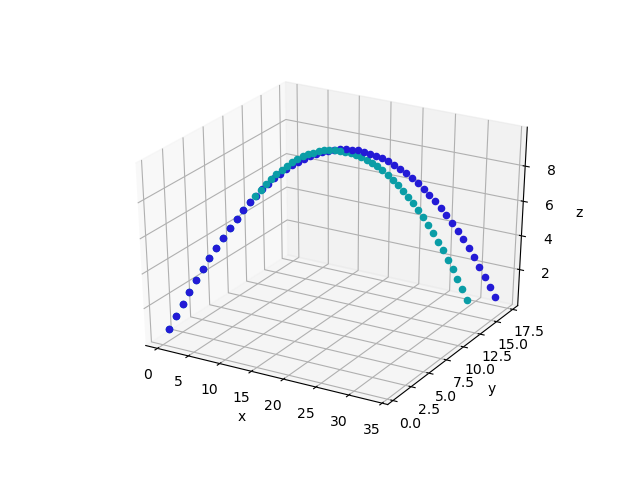
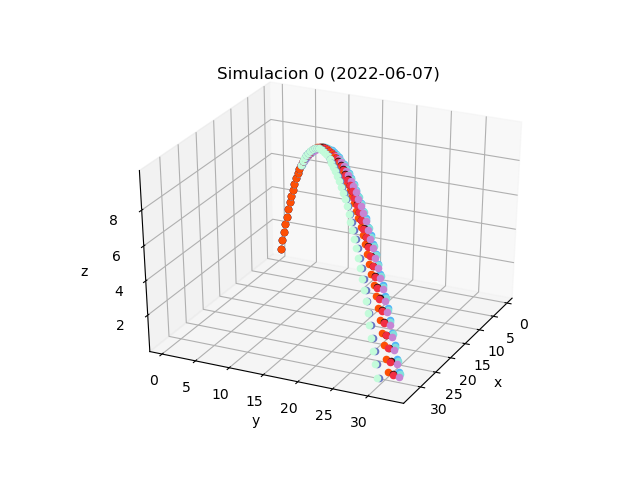
Trabajo terminado

diff --git a/tp4/server.py b/tp4/server.py
@@ -190,6 +190,7 @@ def mp(clientsocket, client_number):
     # declaracion de la figura y sus ejes
     plt.ion()
     fig = plt.figure()
+    plt.title(f'Simulacion {client_number}')
     ax = fig.add_subplot(111, projection='3d')
     ax.set_xlabel('x')
     ax.set_ylabel('y')
@@ -199,6 +200,7 @@ def mp(clientsocket, client_number):
     # el servidor recibe la informacion del cliente
     fecha = clientsocket.recv(1024).decode('utf-8')
     cantidad, vi, a, b = [int(i) for i in clientsocket.recv(2048).decode('utf-8').split('|')]
+    ax.set_title(f'Simulacion {client_number} ({fecha})')
     # cantidad = int(clientsocket.recv(1024).decode())
     # vi = int(clientsocket.recv(1024).decode())
     # a = int(clientsocket.recv(1024).decode())
